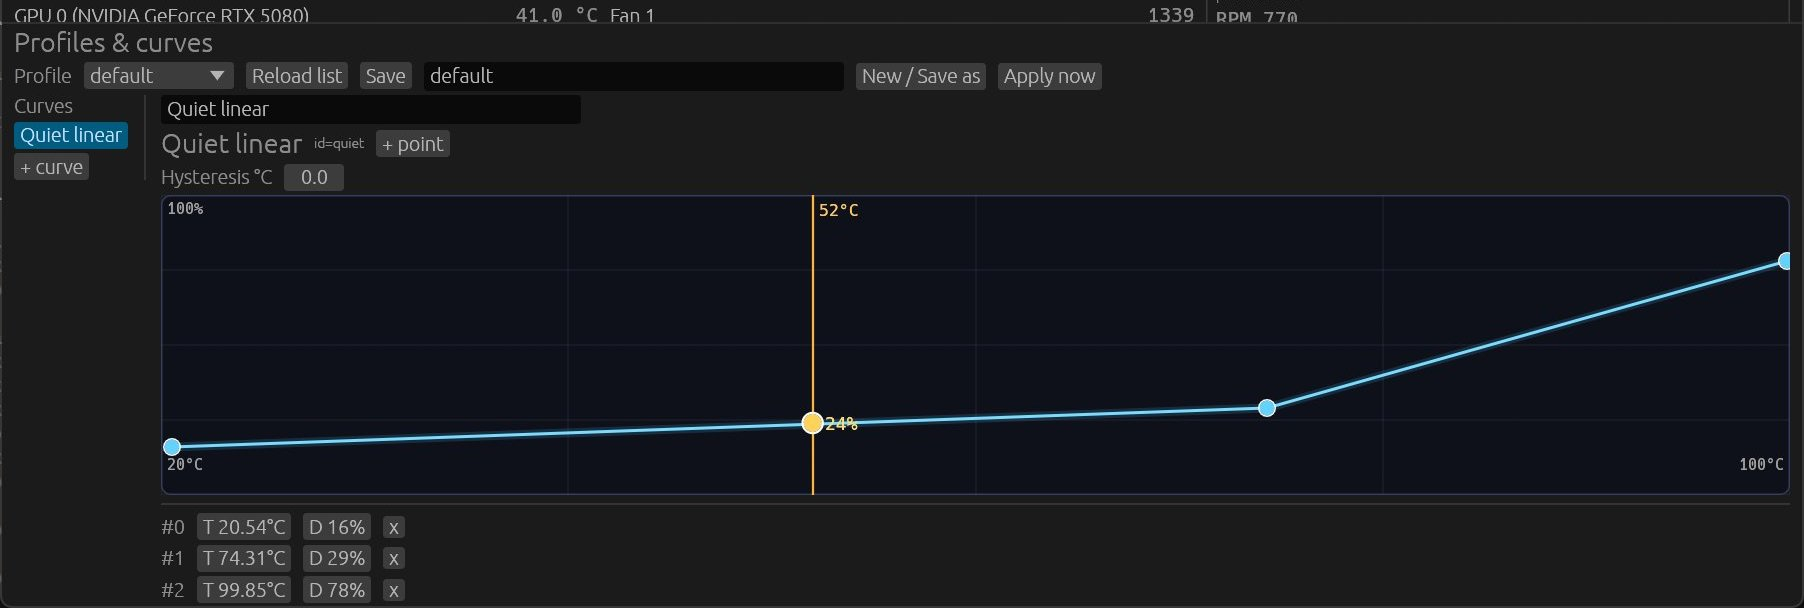
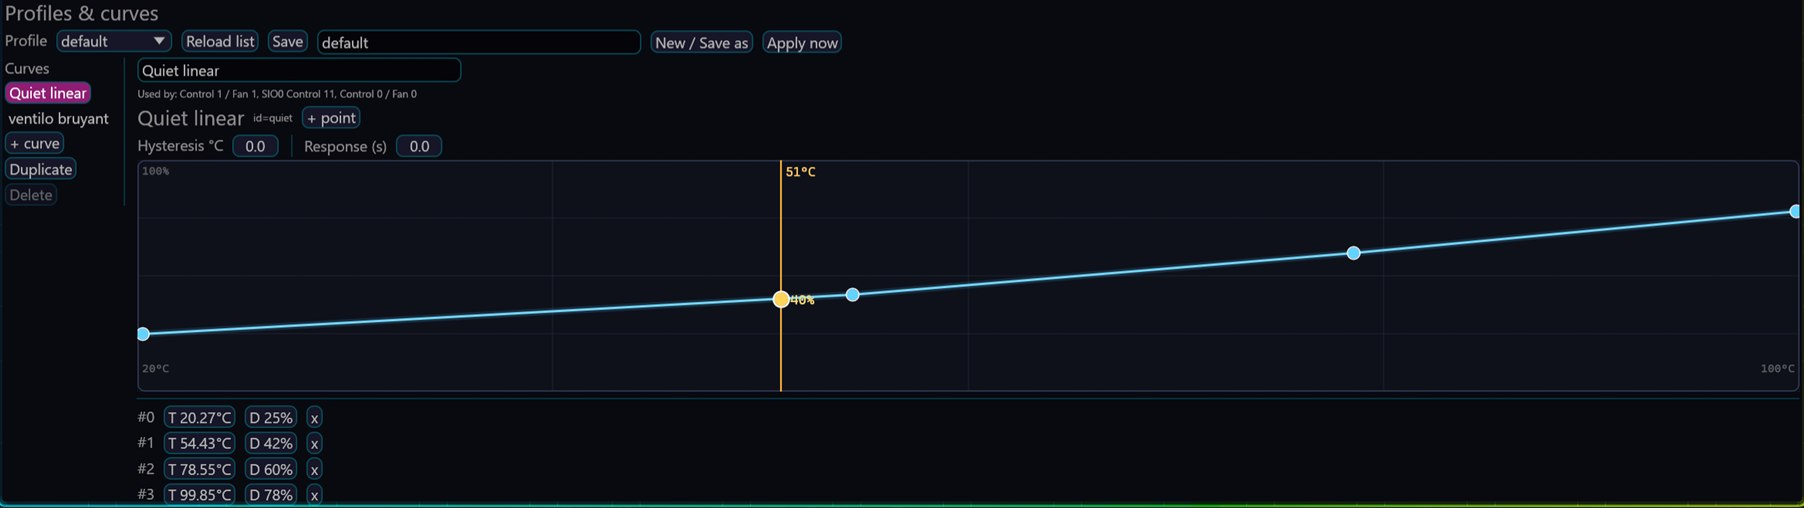
chore: release v0.7.0 (Neon edition)
Neon default theme with its own title bar, Windows fonts, multi-sensor
curve input, curve response time, duplicate / delete curves, DirectX 12
on Windows (fixes the frozen window after a resize on NVIDIA), plus the
v0.6.2 fixes. README, site and specs updated; screenshots retaken in the
Neon theme.

Changed region(s): [[0.0, 0.0, 1.0, 1.0], [0.8692, 0.502, 0.9002, 0.5315], [0.8381, 0.5315, 0.8692, 0.561]]

diff --git a/docs/index.html b/docs/index.html
@@ -211,7 +211,7 @@
   <div class="badges">
     <img src="https://img.shields.io/badge/rust-edition%202024-orange?logo=rust&logoColor=white" alt="Rust edition 2024">
     <img src="https://img.shields.io/badge/license-MIT%20OR%20Apache--2.0-blue" alt="License MIT or Apache-2.0">
-    <img src="https://img.shields.io/badge/version-0.6.2-informational" alt="Version 0.6.2">
+    <img src="https://img.shields.io/badge/version-0.7.0-informational" alt="Version 0.7.0">
     <img src="https://img.shields.io/badge/backend-PawnIO-success" alt="Backend: PawnIO">
     <img src="https://img.shields.io/badge/platform-Windows%2010%2F11-blue" alt="Platform: Windows 10/11">
   </div>
@@ -219,6 +219,10 @@
   <div class="cta">
     <a class="btn primary" href="https://github.com/Leyukaka/fancontrol-rs/releases">Download latest release</a>
     <a class="btn secondary" href="https://github.com/Leyukaka/fancontrol-rs">View source on GitHub</a>
+  </div>
+
+  <div class="note" style="margin-bottom:28px;">
+    <strong>v0.7, Neon edition.</strong> A neon look to bring some color to the autumn, fan curves that can follow several sensors, a leaner Rust core, and every v0.6.2 fix. Prefer the classic look? Options &gt; Theme.
   </div>
 
   <div class="shot">
@@ -234,7 +238,7 @@
   <div class="grid">
     <div class="card">
       <h3>Fan control</h3>
-      <p>Curves, profiles, live duty sliders, multi-sensor temperature graph. Case fans and AIO fans on motherboard headers (not a pump/RGB vendor app).</p>
+      <p>Curves, profiles, live duty sliders, multi-sensor temperature graph. A curve can follow the hottest of several sensors (CPU, GPU, SSD). Case fans and AIO fans on motherboard headers (not a pump/RGB vendor app).</p>
     </div>
     <div class="card">
       <h3>Activity deck</h3>
@@ -250,7 +254,7 @@
     </div>
     <div class="card">
       <h3>Desktop UI</h3>
-      <p>egui app, system tray, first-run write consent, 8 languages (en/fr/de/es/it/zh/ja/lb). When PawnIO needs elevation, a <strong>Restart as Administrator</strong> button shows the Windows UAC prompt (no silent elevation).</p>
+      <p>egui app with a Neon theme by default, light and dark themes, Windows fonts, system tray, first-run write consent, 8 languages (en/fr/de/es/it/zh/ja/lb). When PawnIO needs elevation, a <strong>Restart as Administrator</strong> button shows the Windows UAC prompt (no silent elevation).</p>
     </div>
     <div class="card">
       <h3>CLI</h3>

diff --git a/README.md b/README.md
@@ -14,7 +14,7 @@
 <p align="center">
   <img src="https://img.shields.io/badge/rust-edition%202024-orange?logo=rust&logoColor=white" alt="Rust">
   <img src="https://img.shields.io/badge/license-MIT%20OR%20Apache--2.0-blue" alt="License">
-  <img src="https://img.shields.io/badge/version-0.6.2-informational" alt="Version">
+  <img src="https://img.shields.io/badge/version-0.7.0-informational" alt="Version">
   <img src="https://img.shields.io/badge/backend-PawnIO-success" alt="PawnIO">
   <img src="https://img.shields.io/badge/platform-Windows%2010%2F11-blue" alt="Windows">
 </p>
@@ -34,7 +34,7 @@
 
 ## Features
 
-- **Fan control**: curves, profiles, live duty sliders, multi-sensor temperature graph. Works for case fans and **AIO fans on motherboard headers** (not a pump/RGB vendor app)
+- **Fan control**: curves, profiles, live duty sliders, multi-sensor temperature graph. A curve can follow the hottest of several sensors (CPU, GPU, SSD...) and slow fans down only after a response time. Works for case fans and **AIO fans on motherboard headers** (not a pump/RGB vendor app)
 - **Activity deck**: CPU load history + top processes (CPU % and RAM), filter and sort (default on; toggle from the top bar or Options)
 - **Security**: [PawnIO](https://pawnio.eu/) only for Super I/O / EC. Never ships WinRing0 or other known-vulnerable ring-0 drivers
 - **Host sensors**: NVIDIA GPU multi-metric via fixed-path `nvidia-smi` (temp, power W, util, clocks, VRAM, fan %) + GPU detail panel; SSD/NVMe temps via DeviceIoControl (no PowerShell); **DDR5 DIMM temps** via PawnIO SMBus (`host.dimm{N}.temp`, owner-validated on AMD)
@@ -42,7 +42,7 @@
 - **Updates**: **manual only** - Options → **Check for updates** (GitHub Releases API link). No background check, no auto-download, no silent install
 - **Start with Windows**: Options + first-run prompt (current-user Run key, no admin)
 - **Admin elevation**: Needs-admin dialog + top bar **Restart as Administrator** (UAC via `runas`; no silent elevation)
-- **UI**: egui 0.36 desktop app, system tray, first-run write consent, 8 languages (en/fr/de/es/it/zh/ja/lb)
+- **UI**: egui 0.36 desktop app, Neon theme by default plus light / dark, Windows fonts (Segoe UI), system tray, first-run write consent, 8 languages (en/fr/de/es/it/zh/ja/lb)
 - **CLI**: `sample`, `list-sensors`, `list-controls`, `test-duty`, `sample-storage`, …
 - **Optional fun**: shader graph styles (wgpu) in Options
 - Spec-driven design: decisions live under [`specs/`](./specs)
@@ -114,7 +114,7 @@ Rough map of the Windows landscape. Support always depends on your board and EC.
 
 ## Status
 
-**v0.6.2**. Bug-fix release from a full code review (curve bindings, curve editor, PWM write handling, atomic settings, narrow-window layout, repaint fix) plus a log file at `%APPDATA%\fancontrol-rs\fancontrol-rs\config\fancontrol-rs.log`. Since v0.6.1: light theme (follows the Windows app mode, or pick Light / Dark in Options). Since v0.6.0: curves keep running while the window is in the tray, fans are handed back to BIOS control on exit (tray Exit, Ctrl+C), and a failsafe duty applies when the CPU temperature is missing. NCT668x + banked NCT (ROG B550-A) **certified**; other boards should work - **send logs to certify**. Domain panels (Sensors / GPU / CPU), Activity toggle in the top bar, UI card/table padding, multi-kind graph, CPU package power (AMD + Intel RAPL), **DDR5 DIMM temps** (SMBus, no experimental label), Activity deck, metrics store, opt-in OTLP/HTTP, Start with Windows, **Restart as Administrator** (UAC), tray-icon 0.26 with a frozen Windows GUID. Updates are **manual only**.  
+**v0.7.0, Neon edition**. Neon theme by default (own title bar, animated RGB border; classic look in Options > Theme), Windows fonts, curves that follow several sensors, curve response time, duplicate / delete curves, DirectX 12 rendering on Windows (fixes the window freezing after a resize on NVIDIA), plus the v0.6.2 fixes. NCT668x + banked NCT (ROG B550-A) **certified**; other boards should work - **send logs to certify**. Domain panels (Sensors / GPU / CPU), Activity toggle in the top bar, UI card/table padding, multi-kind graph, CPU package power (AMD + Intel RAPL), **DDR5 DIMM temps** (SMBus, no experimental label), Activity deck, metrics store, opt-in OTLP/HTTP, Start with Windows, **Restart as Administrator** (UAC), tray-icon 0.26 with a frozen Windows GUID. Updates are **manual only**.  
 Public source of truth: this repo ([Releases](https://github.com/Leyukaka/fancontrol-rs/releases), issues, PRs).
 
 | Crate | Role |

diff --git a/specs/06-roadmap.md b/specs/06-roadmap.md
@@ -1,6 +1,6 @@
 # Roadmap
 
-Last aligned with product reality: **v0.6.2** (bug-fix release from the 2026-10-07 code review, log file in the config dir; light theme following the Windows app mode; tray-icon 0.26; v0.6.0 fan safety: curves keep running in tray, BIOS hand-back on exit, failsafe duty). See `specs/07-metrics-telemetry.md`, `specs/04-ui.md`, `docs/DIMM_TEMP.md`.
+Last aligned with product reality: **v0.7.0** (Neon edition: Neon default theme with own title bar, Windows fonts, multi-sensor curve input, curve response time, duplicate / delete curves, DirectX 12 on Windows; v0.6.2 review fixes). See `specs/07-metrics-telemetry.md`, `specs/04-ui.md`, `docs/DIMM_TEMP.md`.
 
 ## Phase 0 - Foundation
 
@@ -56,7 +56,7 @@ Last aligned with product reality: **v0.6.2** (bug-fix release from the 2026-10-
 
 ## Phase 4 - Advanced
 
-- [ ] Multi-sensor curves (e.g. max CPU+GPU as single input)
+- [x] Multi-sensor curves (max of the CPU sensor and extra sensors per control) - v0.7.0
 - [ ] Additional official plugins
 - [ ] Auto-update: download + SHA256 verify + install
 - [x] NVIDIA multi-metric + GPU panel (v0.3.5; Hot Spot not via smi)
@@ -87,7 +87,7 @@ Spec: `specs/07-metrics-telemetry.md`.
 4. SSD/NVMe temp validation on real hardware
 5. Code signing when ready for wider audience
 5. Optional: download + SHA256 after manual check (still no silent auto-update)
-6. Multi-sensor curves (max CPU+GPU)
+6. Multi-sensor curves: done in v0.7.0 (extra sensors per control)
 7. RGB remains **future / out of Super I/O fan HWM scope**
 
 ## Out of scope for v1

diff --git a/AGENTS.md b/AGENTS.md
@@ -54,9 +54,9 @@ Rust edition 2024, stable toolchain pinned via `rust-toolchain.toml` (rustfmt + 
 
 ## Status (keep updated)
 
-- Product line: **v0.6.2**. Roadmap and feature checklist: `specs/06-roadmap.md`.
+- Product line: **v0.7.0**. Roadmap and feature checklist: `specs/06-roadmap.md`.
 - Hardware backend: PawnIO + NCT668x (validated `0xD5` / banked `0xD4`) + host GPU/storage + CPU package power + DDR5 DIMM temps. Details: `docs/SUPPORTED_HARDWARE.md`, `docs/DIMM_TEMP.md`, `specs/03-hardware-backend.md`.
-- UI: egui 0.36, domain panels, multi-kind graph, activity deck, i18n (8 locales), light + dark themes (follows Windows), manual update check only, tray-icon 0.26 with a frozen Windows GUID. `specs/04-ui.md`.
+- UI: egui 0.36, domain panels, multi-kind graph, activity deck, i18n (8 locales), Neon default theme (own title bar) + system / light / dark, Windows fonts, DX12 renderer on Windows, manual update check only, tray-icon 0.26 with a frozen Windows GUID. `specs/04-ui.md`.
 - Metrics store (SQLite/CSV) shipped; OTLP/HTTP export opt-in. `specs/07-metrics-telemetry.md`.
 - PawnIO is a prerequisite (not bundled). Elevation via UAC **Restart as Administrator** only (no silent elevation). PWM writes on by default; `--read-only` for diagnostics.
 

diff --git a/specs/04-ui.md b/specs/04-ui.md
@@ -3,7 +3,7 @@
 ## Goals
 
 - Fast, modern, responsive desktop UI
-- Follows the Windows light / dark app mode by default (Options: System / Light / Dark)
+- Neon theme by default since v0.7 (own title bar, animated RGB border); Options: System / Light / Dark / Neon. Windows UI fonts (Segoe UI, Cascadia Mono) on by default
 - Strong fan curve editing experience
 - System tray support
 

diff --git a/specs/02-architecture.md b/specs/02-architecture.md
@@ -34,7 +34,7 @@
 | `fancontrol-ui` | Desktop UI (egui + eframe **0.36**): live view, sliders, curves, graph, options |
 | `fancontrol-rs` | Binary: CLI harness + `ui` subcommand |
 
-Workspace version: **0.6.2** (see root `Cargo.toml`).
+Workspace version: **0.7.0** (see root `Cargo.toml`).
 
 ## Key design decisions
 
